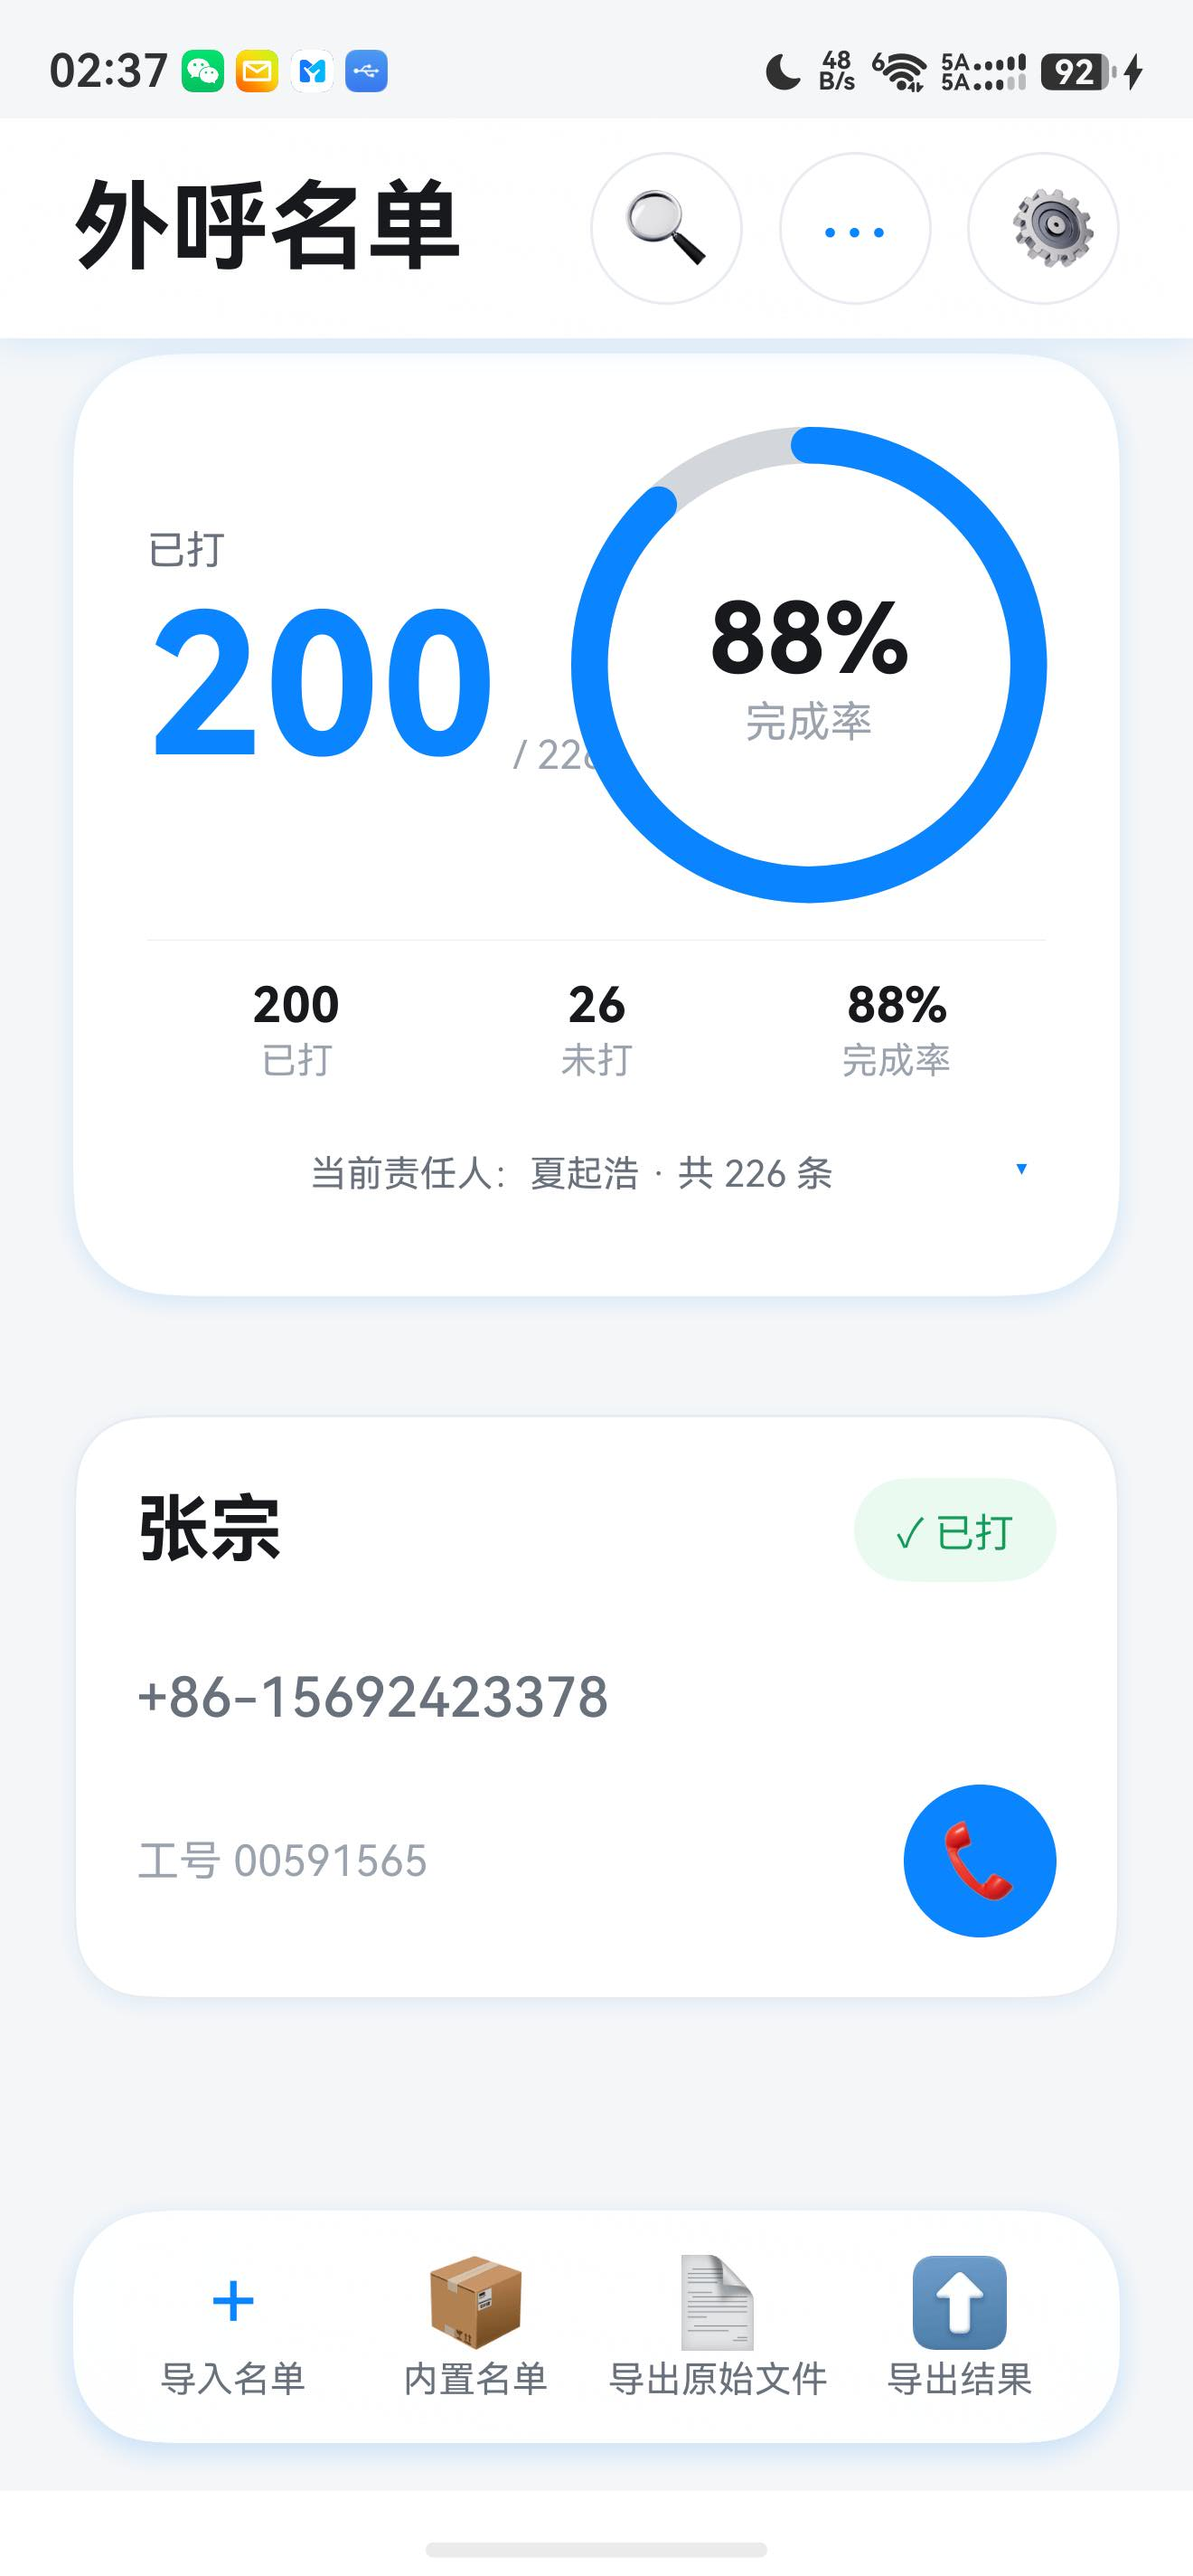
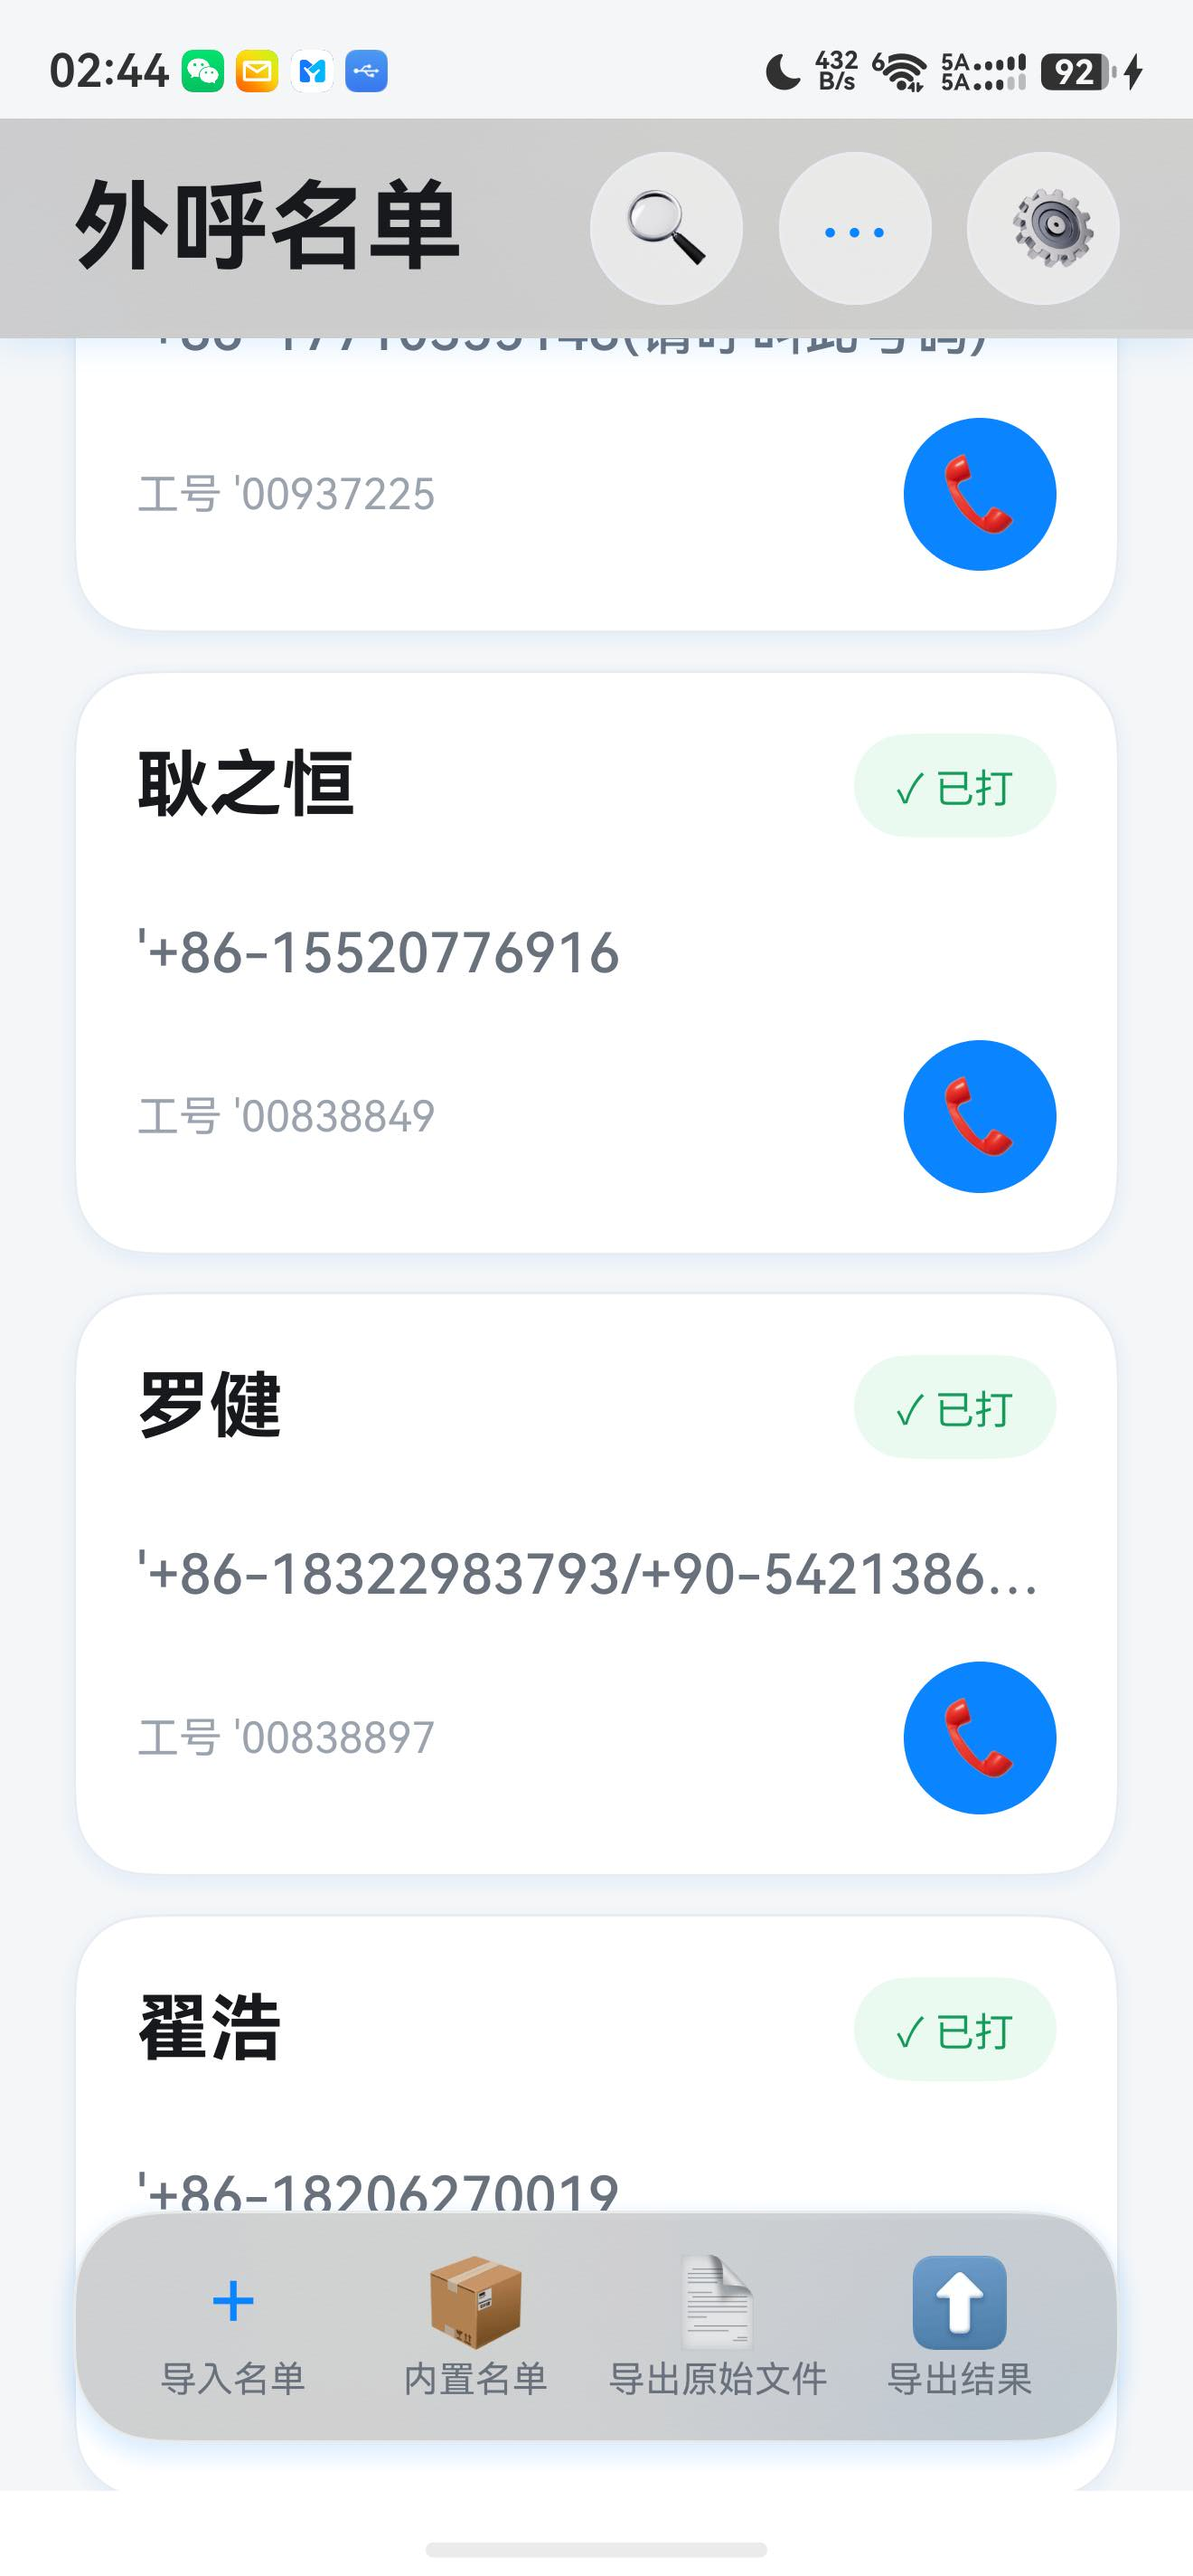
docs/15 7.6 回填毛玻璃/渲染修复（背景模糊档+0.55 透度+底部预留 48vp 内容穿底栏；首屏后新建卡片直接显示）+ 226 行真实名单验证证据（像素 #CCCCCC/#CECFD1 内容透出）；主页截图更新

diff --git a/docs/15-UI重构-实施与验收记录.md b/docs/15-UI重构-实施与验收记录.md
@@ -56,6 +56,15 @@
 2. 光随指动/光线勾勒/非线性形变：以 docs/15 四节语义材质（interpolatingSpring 按压 + 边缘高光 + 弹性曲线）等效实现；
 3. **FAQ 四项与本版本方案对照**（均已修复并真机验证）：①深色模式状态栏图标看不清 → onConfigurationUpdate 同步内容色；②挂起/退出顶部闪现白条 → start_window_background 双套=页面同色；③跳转页面后未避让状态栏 → 内容层保持系统避让；④页面与导航条区域色调不一致 → 状态栏底色=页面同色（不设导航栏属性，避免强制弹出导航条产生白边）。
 
+### 7.6 毛玻璃/渲染修复（用户真机两项反馈，2026-08-28 晚）
+
+| 反馈 | 根因 | 修复 |
+|---|---|---|
+| 浮层无毛玻璃、背景纯色 | COMPONENT_ULTRA_THICK 在此设备观感=纯色；且内容层底部预留 76+32+48vp 空白带+顶栏静止时下方无内容滑过 → 模糊没有可透内容 | ①换系统背景语义最厚档 `BlurStyle.BACKGROUND_ULTRA_THICK`；②bar_bg 0.82→0.55（底层可透出）；③Grid 底部预留→48vp（内容可滚动穿过底栏，模糊真实可见、无遮挡感空白带） |
+| 名单卡片"滑到才渲染/弹入"，像被底栏遮挡 | cachedCount 预建后的卡片每次 aboutToAppear 重播入场动画（opacity 0→1） | 入场动画仅首屏播放（PersonCard.animateIn 门控，Index 900ms 后置 false；之后新建卡片直接显示） |
+
+**验证（226 行真实名单，SGT-AL10）**：上滑流畅；翟浩卡内容延伸至 y2657 > 底栏上缘 y2490（内容从底栏下穿过）；像素采样顶栏 #CCCCCC / 底栏 #CECFD1（内容与 0.55 白+模糊混合，非纯白）——毛玻璃真实可见。
+
 ## 5. 待用户确认项
 
 1. 目视 `docs/ui-ref/v0.8-0{1..5}`（主页/详情/设置/选择/筛选菜单），确认顶栏毛玻璃穿透效果与整体视觉；
